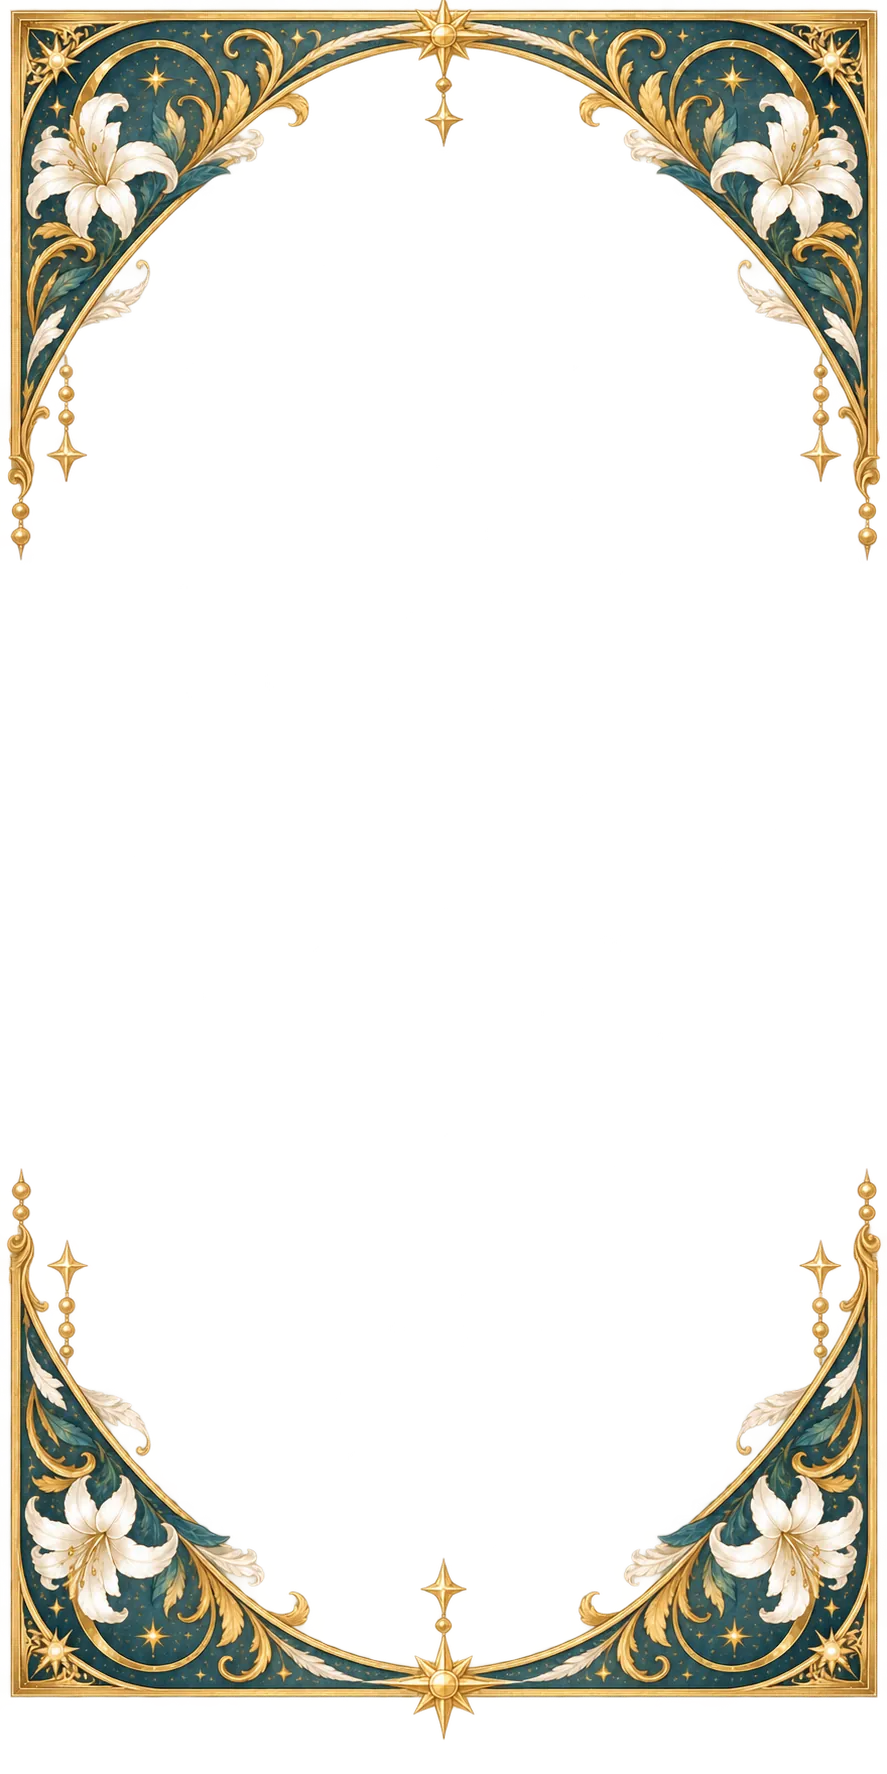
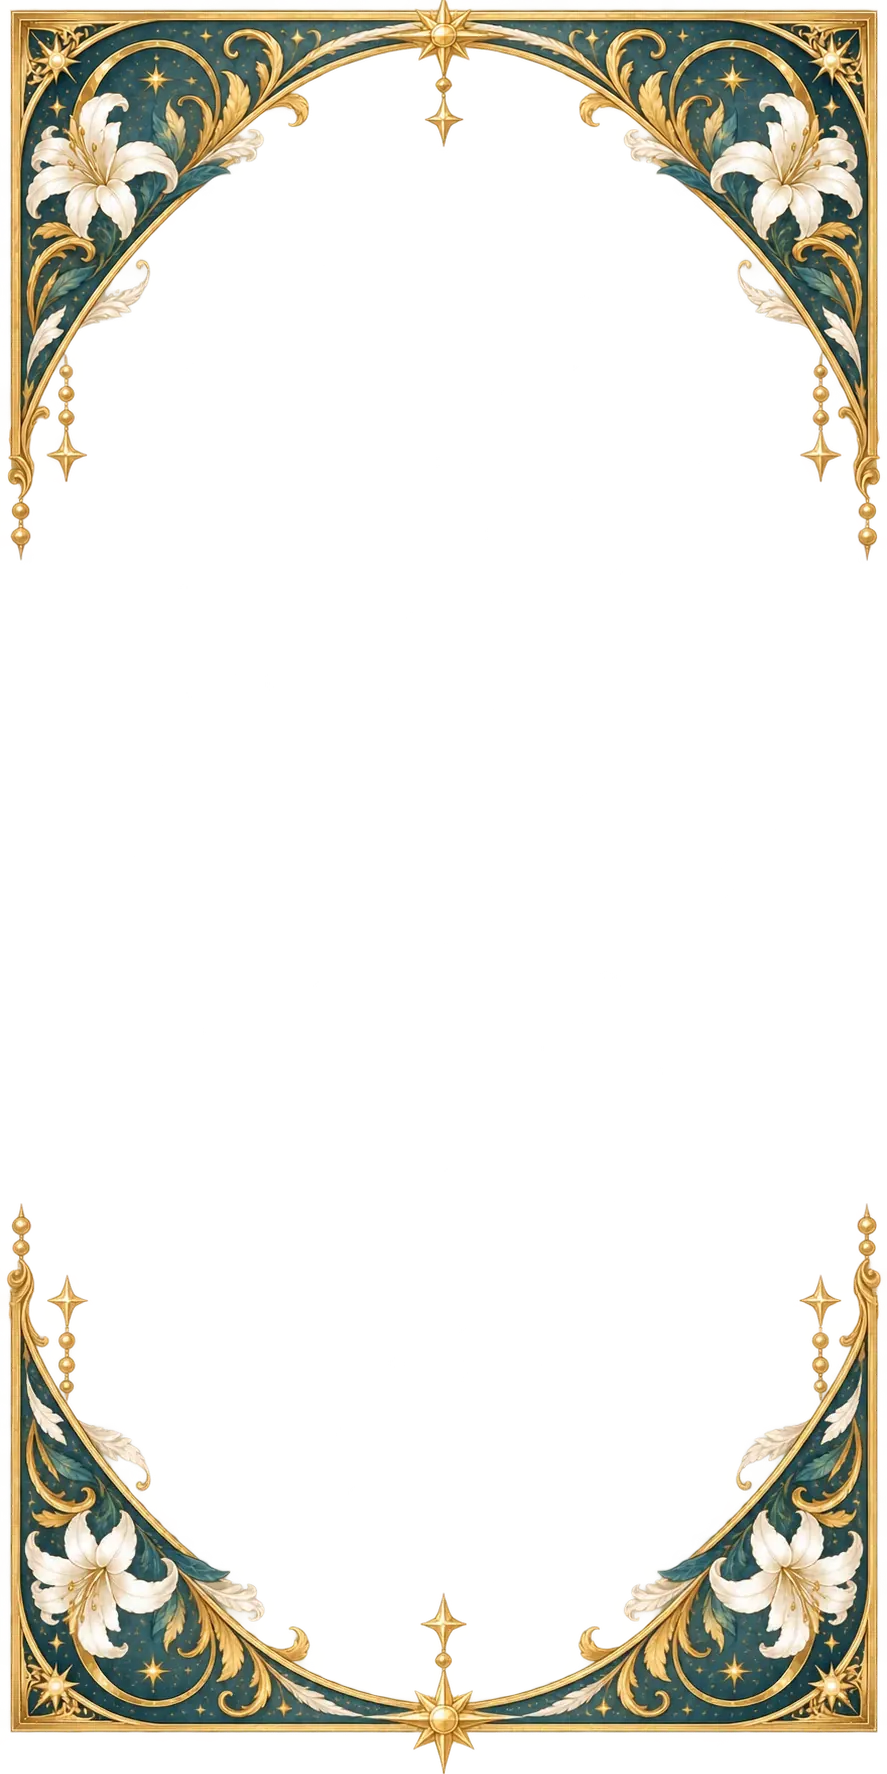
Fix a baked-in gap at the bottom of the frame image and caption overlap
ユーザー報告2点への対応。

1) 「太陽の紋章/ウェイブスペルの表記が下の画像に引っ張られている」
   キャラクター名のキャプションが、下の装飾の角の花柄アートワーク(装飾の角は中央より
   早い位置から絵が始まる)と重なって表示されていた。.hero .kinduo の padding-bottom を
   4vw→12vwに増やし、キャプションが確実に明るい余白部分に収まる位置まで押し上げた。

2) 「背景画像の一番下に白い余白があって、そのせいでズレている」
   hero-frame.webp のアルファチャンネルを調べたところ、上半分の絵は半分の境界(0px)まで
   ぴったり届いているのに対し、下半分の絵は境界から35px手前で終わっており、意図しない
   余白が生じていた(background-size:100% 200%で上下反転貼りしているため、この35pxが
   下端に空白として現れていた)。下半分の絵を35px上にシフトして境界にフラッシュさせ、
   画像そのものを修正した(元PNG assets/images/hero-frame.png も同様に更新)。

Changed region(s): [[0.0, 0.6511, 1.0, 1.0]]

diff --git a/assets/css/paper-theme.css b/assets/css/paper-theme.css
@@ -663,7 +663,7 @@ html { scroll-behavior: smooth; }
      どんな高さになっても歪まず縮小フィットする — これが「収まらない」を構造的に防ぐ本体。 */
   .hero .kinduo {
     flex: 1 1 auto; min-height: 0; max-width: 84vw; width: 100%;
-    margin: 0 auto; padding-bottom: 4vw;
+    margin: 0 auto; padding-bottom: 12vw;
     grid-template-rows: minmax(0, 1fr) auto;
   }
   .hero .kinduo__art { height: 100%; aspect-ratio: auto; }
